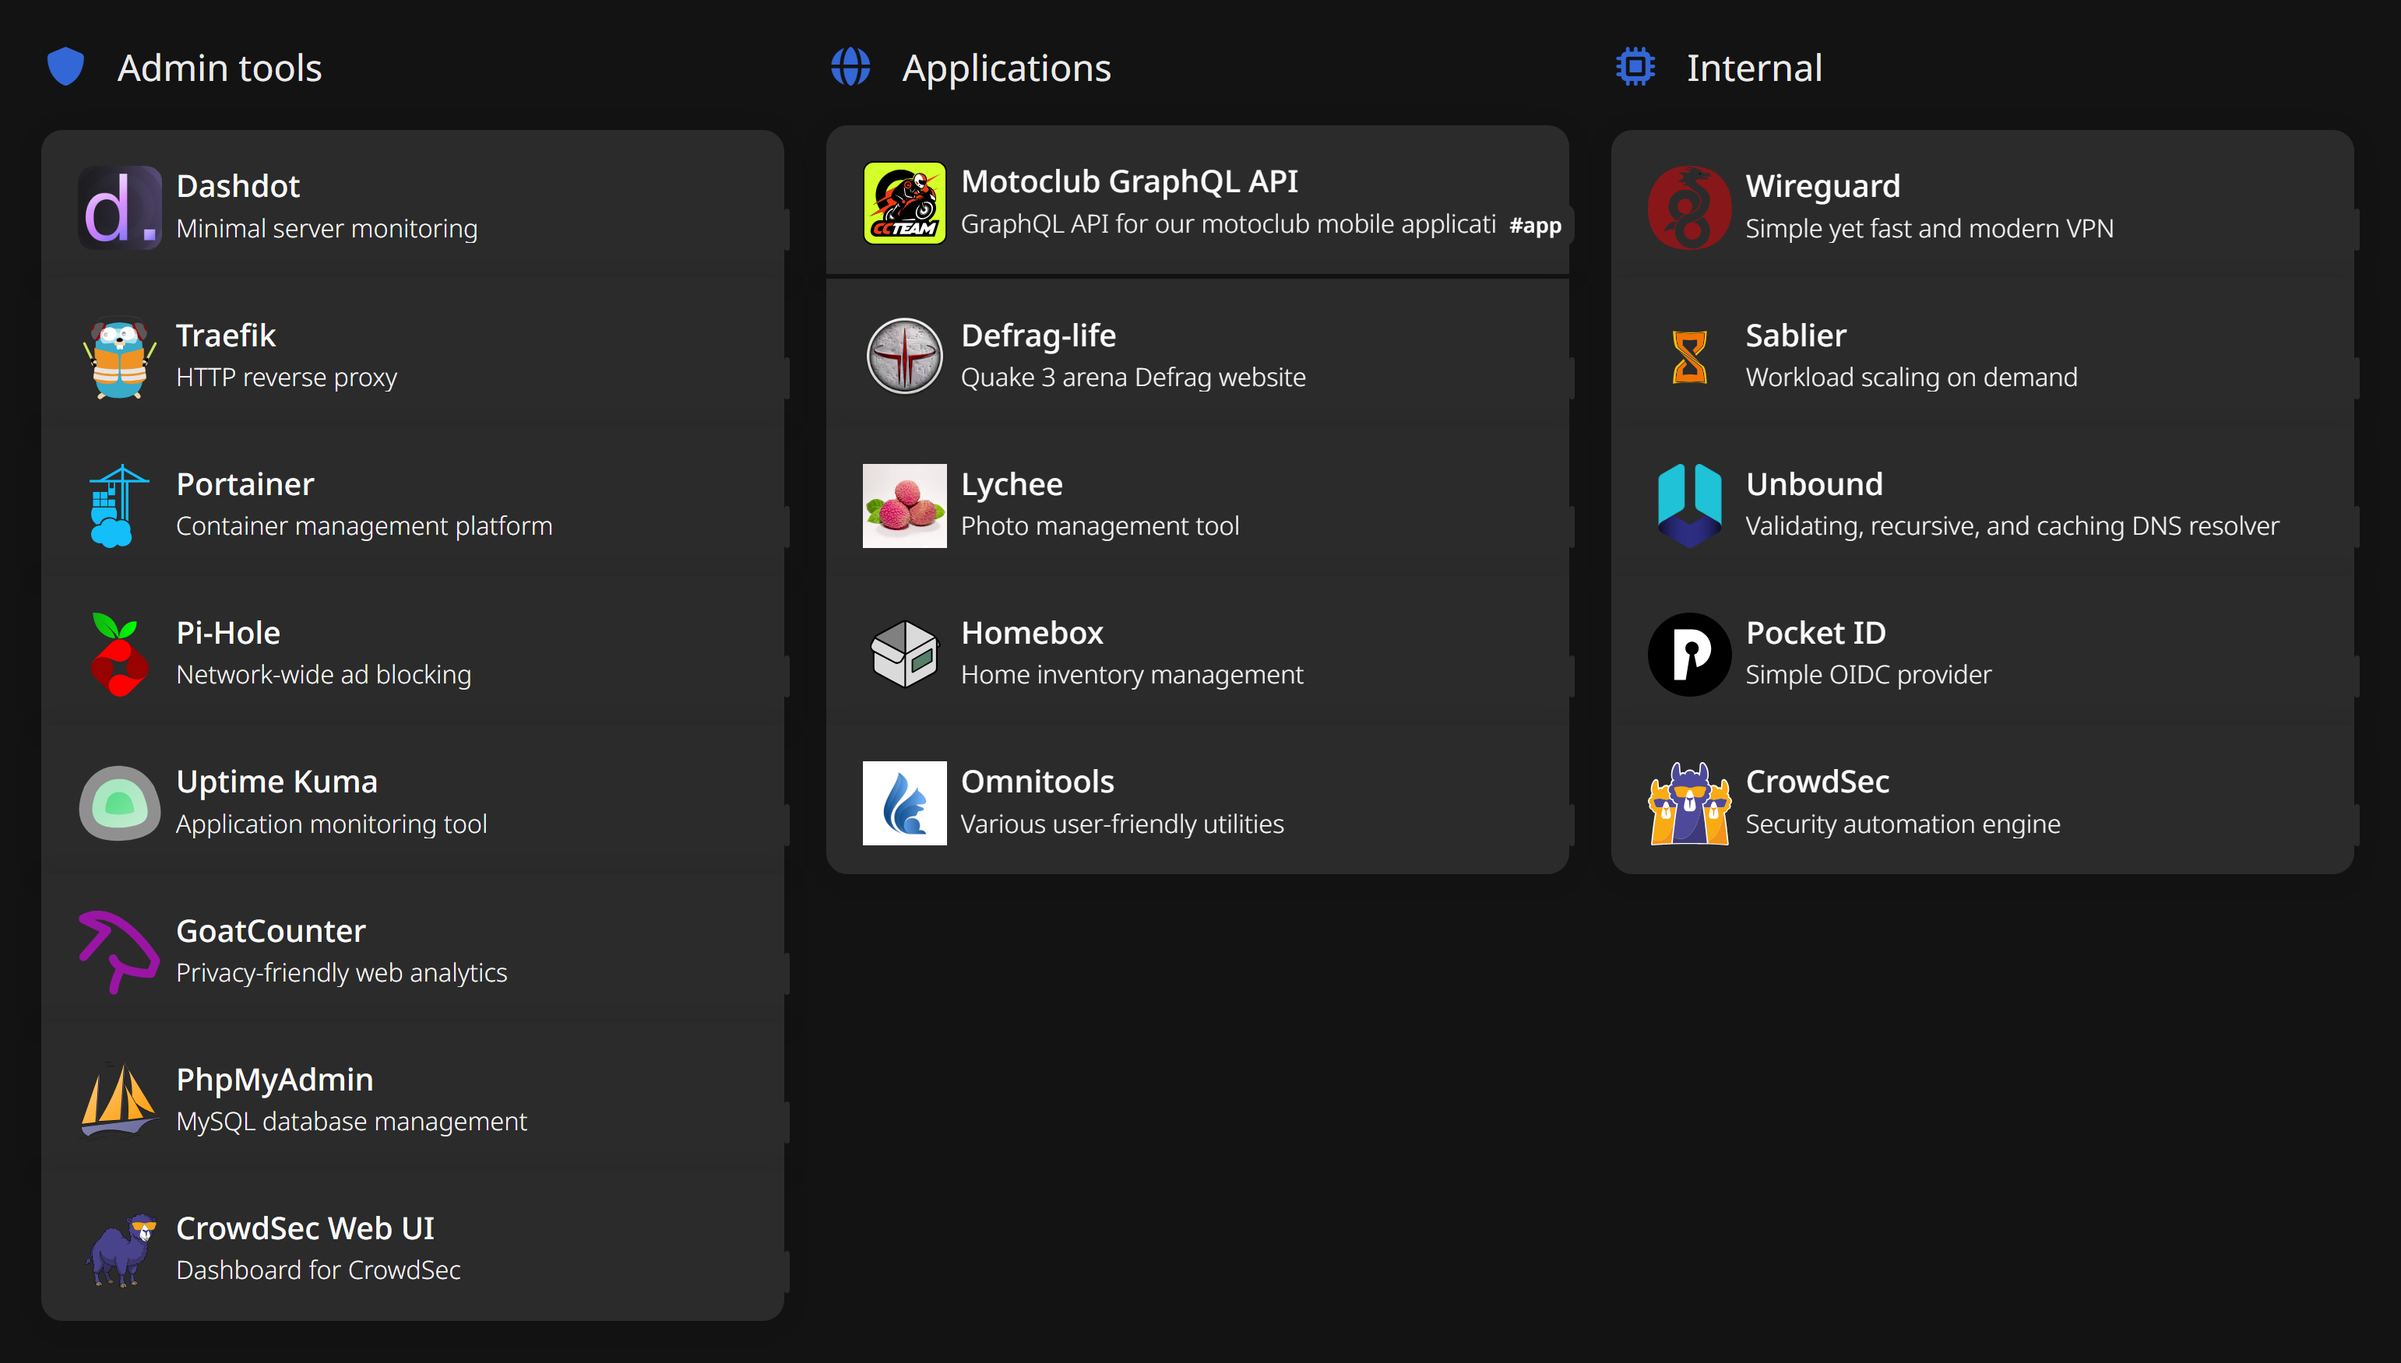
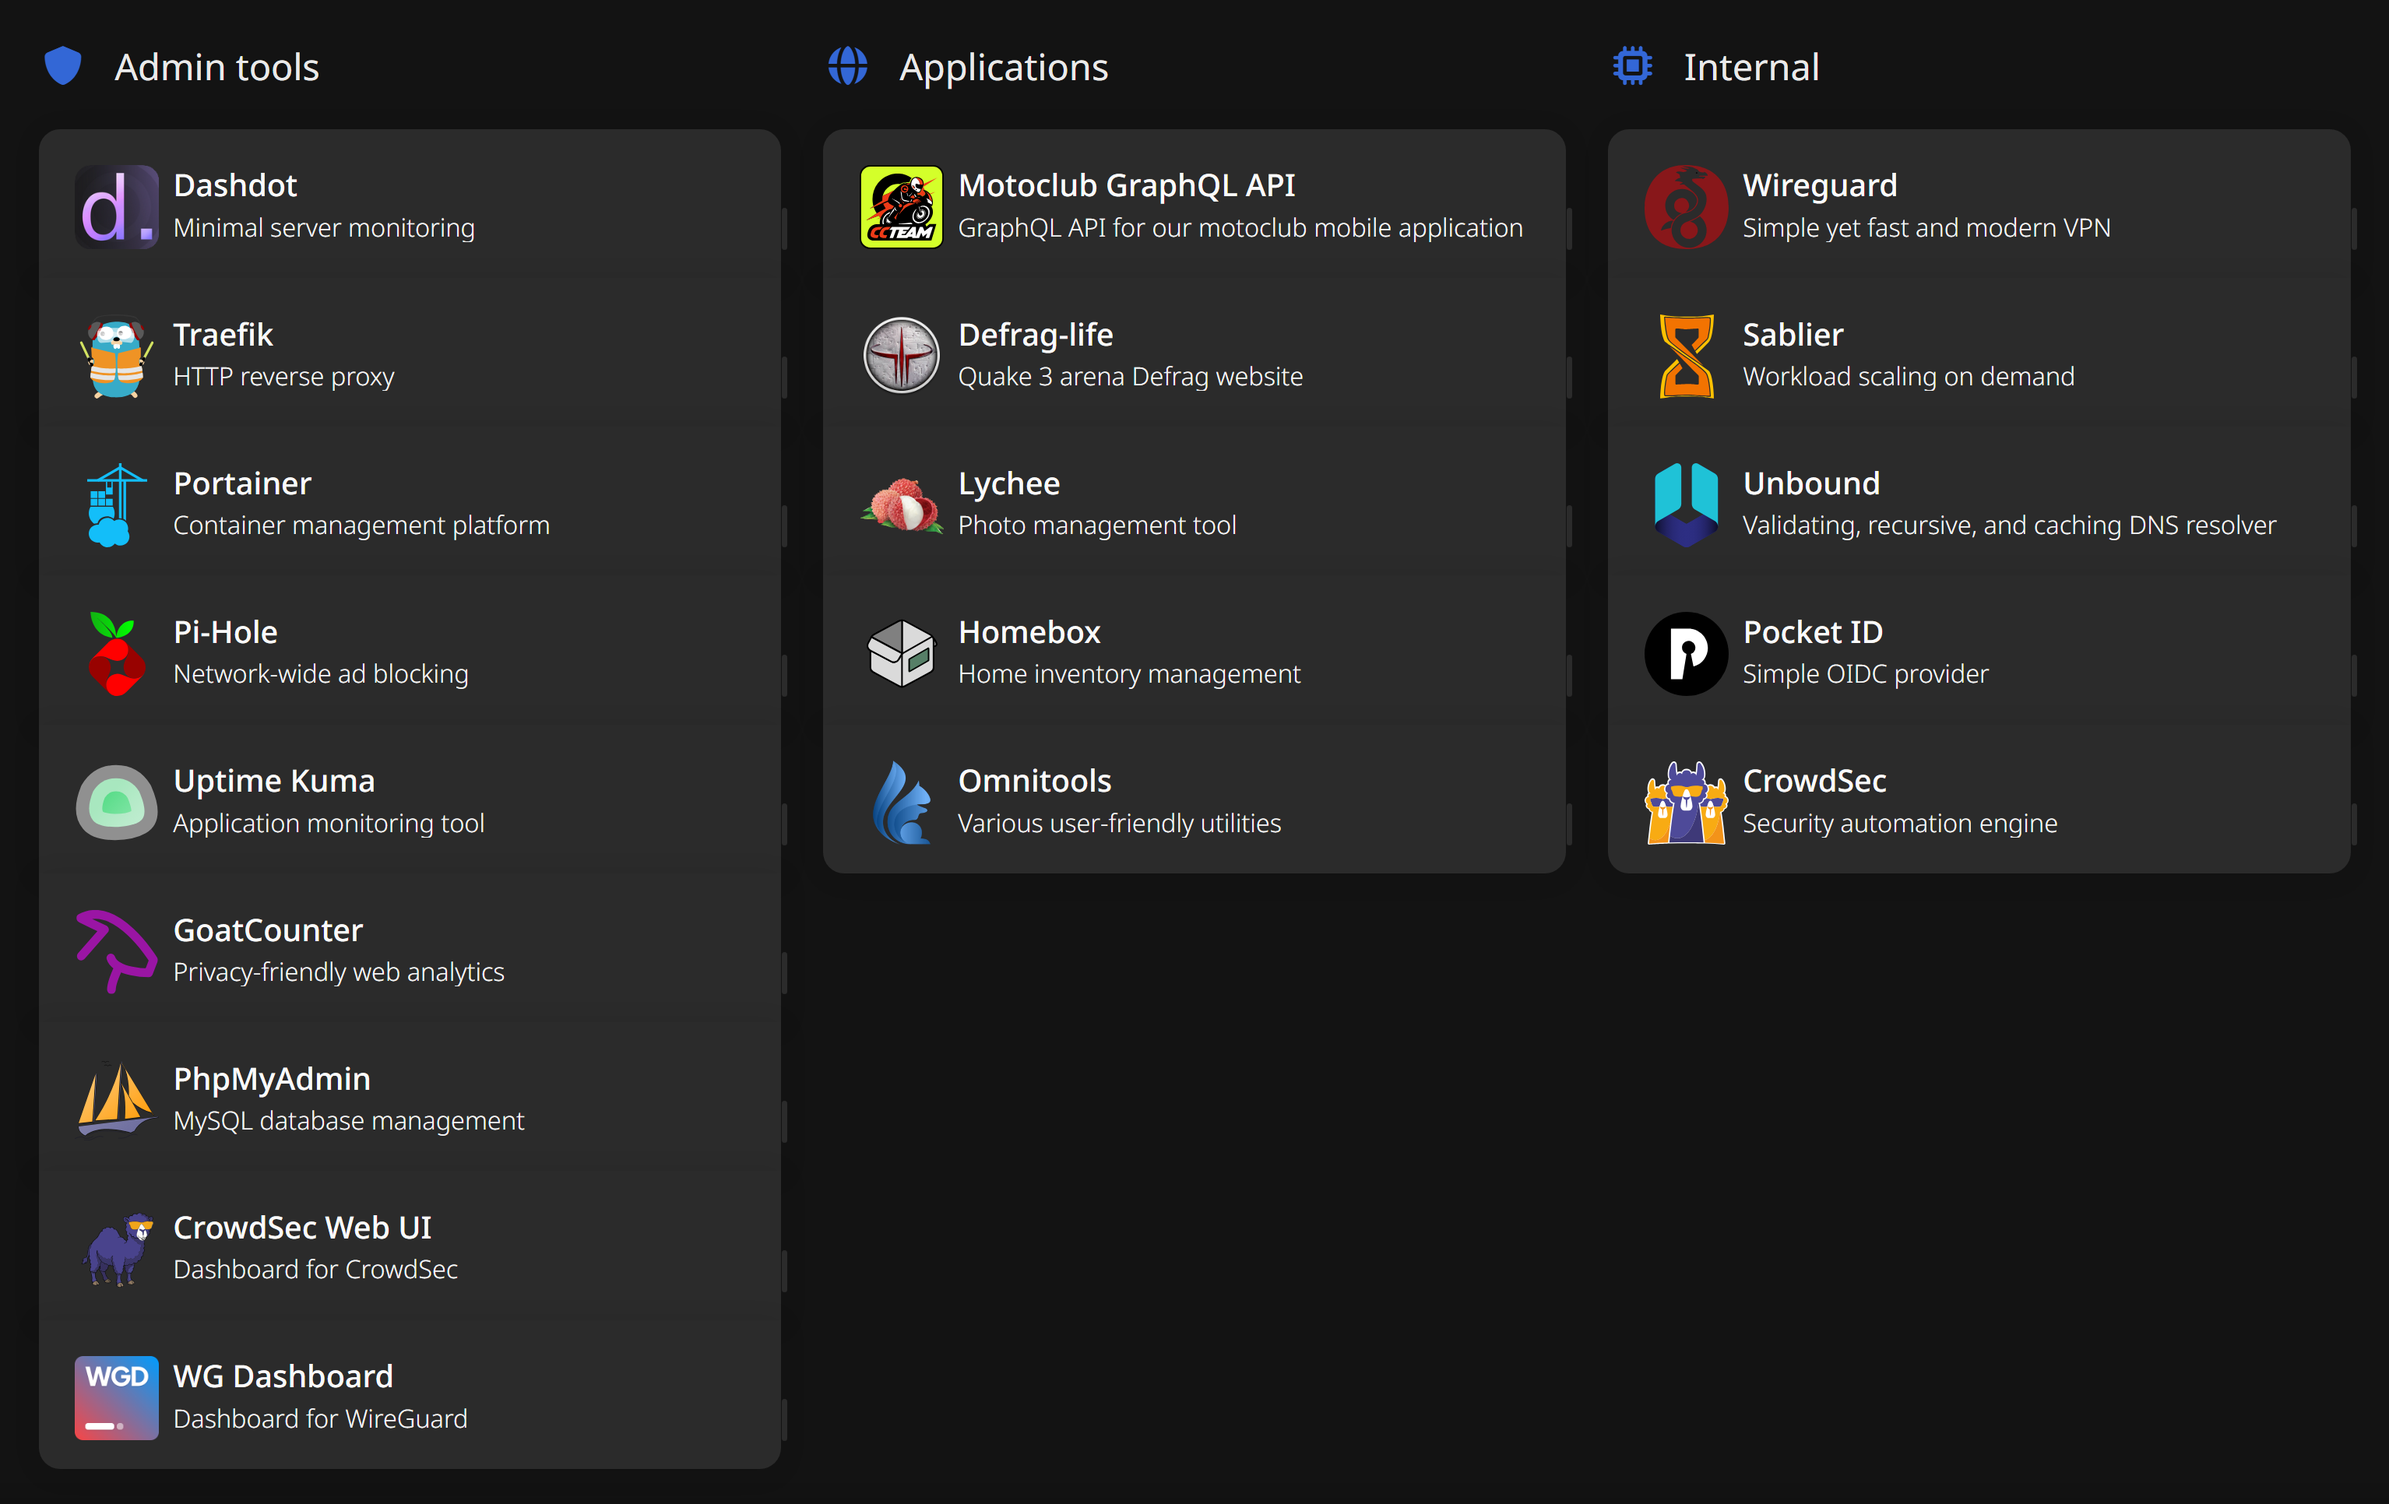
added wgdashboard

diff --git a/README.md b/README.md
@@ -2,8 +2,8 @@
 
 # Personal self-hosting guide
 
-![Static Badge](https://img.shields.io/badge/Version-1.1.3-2AAB92)
-![Static Badge](https://img.shields.io/badge/Last_update-18_Sept_2026-blue)
+![Static Badge](https://img.shields.io/badge/Version-1.1.4-2AAB92)
+![Static Badge](https://img.shields.io/badge/Last_update-22_Sept_2026-blue)
 ![Static Badge](https://img.shields.io/badge/Free_&_Open_source-GPL_V3-green)
 
 This project describes my personal **self-hosted** infrastructure setup, running on a **mini PC** (**N100** based).
@@ -55,7 +55,7 @@ It uses only **free** and **open source** software.
     8. [Network flow](#network-flow)
 
    </details>
-4. <details>
+4. <details open>
    <summary><a href="#install-services">Install services</a></summary>
 
    1. [PocketID](#pocketid)
@@ -127,6 +127,7 @@ These are the tools we are going to run :
 |        <img src="images/logo-crowdsec.svg" alt="CrowdSec logo" height="32"/>        | CrowdSec        | https://github.com/crowdsecurity/crowdsec       | Collaborative intrusion prevention, bans attackers   |
 | <img src="images/logo-crowdsec-web-ui.svg" alt="CrowdSec Web UI logo" height="32"/> | CrowdSec Web UI | https://github.com/TheDuffman85/crowdsec-web-ui | Web dashboard for CrowdSec alerts and decisions      |
 |       <img src="images/logo-wireguard.svg" alt="Wireguard logo" height="30"/>       | Wireguard       | https://github.com/WireGuard                    | Simple yet fast and modern VPN                       |
+|     <img src="images/logo-wgdashboard.png" alt="WGDashboard logo" height="30"/>     | WGDashboard     | https://github.com/WGDashboard/WGDashboard      | Web interface to manage WireGuard peers              |
 |         <img src="images/logo-pihole.svg" alt="Pi-hole logo" height="34"/>          | Pi-hole         | https://github.com/pi-hole/pi-hole              | Network-wide ad blocking                             |
 |         <img src="images/logo-unbound.svg" alt="Unbound logo" height="32"/>         | Unbound         | https://github.com/NLnetLabs/unbound            | Validating, recursive, and caching DNS resolver      |
 |           <img src="images/logo-homer.png" alt="Homer logo" height="30"/>           | Homer           | https://github.com/bastienwirtz/homer           | Static application dashboard                         |
@@ -1394,10 +1395,10 @@ Everything about performance is in [VPN connection speed](#vpn-connection-speed)
 First, create the folders that will hold data and configuration :
 
 ```bash
-sudo mkdir -p /opt/apps/pihole /opt/apps/unbound
+sudo mkdir -p /opt/apps/pihole /opt/apps/unbound /opt/apps/wgdashboard/data
 ```
 
-Then from this project's _pihole_ and _unbound_ directories, copy the _docker-compose.yml_ files into _/opt/apps/pihole_ and _/opt/apps/unbound_ respectively.
+Then from this project's _pihole_, _unbound_ and _wgdashboard_ directories, copy the _docker-compose.yml_ files into the matching _/opt/apps_ folders.
 For more details about these files, see [Configuration files details](#configuration-files-details-1).
 
 WireGuard itself is a Debian package :
@@ -1505,6 +1506,64 @@ PersistentKeepalive = 25
 > Linux answers ARP requests for **all** its addresses on **all** its interfaces, so the router could deliver traffic for the main address through the Wi-Fi or the USB adapter,
 > NetworkManager detected its own Wi-Fi as an address conflict and dropped the USB adapter address for hours at each DHCP renewal, and the client I had pointed to that address
 > lost its tunnel at random and got a fraction of the throughput when it worked. Disable the Wi-Fi (`sudo nmcli radio wifi off`) and unplug what you don't use.
+
+#### WGDashboard
+
+<img src="images/logo-wgdashboard.png" alt="WGDashboard logo" height="88"/>
+
+Managing the peers in _wg0.conf_ with an editor works, but a web interface is more comfortable : **WGDashboard** shows the interfaces, the peers, their last handshake
+and their traffic, creates a peer with its keys and its QR code, and serves the configuration file to download. It is the replacement for WireGuard UI,
+which is no longer maintained and which could not be used with WireGuard running on the host.
+
+> [!IMPORTANT]
+> The container **must share the host's network namespace** (`network_mode: host`). WireGuard runs on the host, so the `wg0` interface lives in the host's namespace :
+> a container with its own namespace can read _wg0.conf_ through the bind mount, and will happily list your peers, but it cannot query the interface itself.
+> The symptom is unmistakable : the peers are displayed but always as **disconnected**, with no handshake and no traffic, whatever their real state.
+
+Two consequences follow from the host namespace, and they are the whole difficulty of this service :
+
+- Traefik can no longer reach it by container name, since the container is on no Docker network. The service points at the mini PC address instead, `http://192.168.0.16:10086`
+- the dashboard is reachable **directly** at that same address, hence bypassing Traefik, the IP whitelist and any authentication middleware. Its own login therefore remains
+  the barrier that covers every path, and it is the reason we do not put PocketID in front of it : that would only protect the nice URL while leaving the direct one open
+
+To close that direct path, `app_ip` in the `[Server]` section of _wg-dashboard.ini_ can bind the dashboard to the gateway address of the private Traefik network
+(`docker network inspect traefik-private-net --format '{{range .IPAM.Config}}{{.Gateway}}{{end}}'`) so that only Traefik and the containers of that network can reach it.
+Keep in mind that this address depends on the subnet Docker assigns, and would change if the network were recreated.
+
+> [!NOTE]
+> **OIDC is not available for the admin dashboard**, only for the client side app. The `[OIDC] admin_enable` setting and the `/api/oidc/toggle` endpoint exist,
+> and the `Admin` section of _wg-dashboard-oidc-providers.json_ can be filled, but nothing consumes them : `dashboard.py` never instantiates the `DashboardOIDC` module,
+> so no provider is registered, no request is made to the provider, nothing is logged, and no button appears. Don't spend an evening looking for a configuration mistake.
+>
+> The single sign-on documented by the project applies to the **client side app** (`/client`), a self-service portal where people sign in to download the peers assigned
+> to them : fill the `Client` section instead, set `client_enable = true`, and register the portal URL itself as the callback. The (empty) **Clients** tab of the admin
+> dashboard lists those portal accounts, not your peers — an empty tab is normal when you are the only user.
+>
+> The `extra_hosts` entry of the Compose file is there for that case : in the host namespace the container resolves names through the **host** resolver, which knows
+> nothing of the private names, so the provider would not even be resolved. See [PocketID](#pocketid) for the general problem and its other solutions.
+
+##### Setting up
+
+Create the folder, then copy the _docker-compose.yml_ file from this project's _wgdashboard_ directory into _/opt/apps/wgdashboard_,
+and the _wgdashboard.yml_ file from _traefik/dynamic_ into _/opt/apps/traefik/dynamic_ :
+
+```bash
+sudo mkdir -p /opt/apps/wgdashboard/data
+```
+
+Then add a **local DNS record** `wgdashboard.example.com` pointing to the mini PC (see [Pi-hole](#pi-hole)), start the container (see [Run](#run-2)) and open
+https://wgdashboard.example.com. The default credentials are `admin` / `admin`, change them immediately in the settings, where TOTP can also be enabled.
+
+Your existing peers appear on their own : the dashboard reads the very _wg0.conf_ the interface uses, so nothing has to be imported and nothing is duplicated.
+
+> [!WARNING]
+> The dashboard can start and stop the interface, but `wg0` is managed by `wg-quick@wg0` through systemd. Avoid switching it from both sides, otherwise systemd
+> and the dashboard end up with diverging views of what is running.
+>
+> Peers created from the dashboard are written directly into _wg0.conf_. Keep a copy of that file with your backups : it holds the **server's private key**, and losing it
+> means every client has to be reconfigured.
+
+<img src="images/screen-wgdashboard.png" alt="WG Dashboard screenshot"/>
 
 #### Pi-hole
 
@@ -1761,6 +1820,29 @@ networks:
 This **Compose** file only defines the `unbound` service, on the same (external) `pihole-net` network with the **static IP address** `10.2.0.200`,
 and binds the configuration folder so that _unbound.conf_ can be edited (see [Unbound](#unbound)). Unbound is not exposed at all, only Pi-Hole talks to it.
 
+:page_facing_up: _wgdashboard/docker-compose.yml_ :
+
+```yaml
+services:
+
+  wgdashboard:
+    image: ghcr.io/wgdashboard/wgdashboard:latest
+    restart: unless-stopped
+    container_name: wgdashboard
+    volumes:
+      - /etc/wireguard:/etc/wireguard
+      - ./data:/data
+    network_mode: host
+    cap_add:
+      - NET_ADMIN
+    extra_hosts:
+      - "pocketid.example.com:192.168.0.16"
+```
+
+This one is the odd one out : no network and no published port, because `network_mode: host` puts it in the **host's** network namespace — the only way for it to see
+the live state of `wg0` (see [WGDashboard](#wgdashboard)). `NET_ADMIN` lets it act on the interface, _/etc/wireguard_ is shared with the host so that it edits the very
+file `wg-quick` uses, and _data_ holds its own database and settings. `extra_hosts` is only useful if you enable the single sign-on of the client side app.
+
 #### Traefik routing
 
 :page_facing_up: _traefik/dynamic/pihole.yml_ (to copy into _/opt/apps/traefik/dynamic/_, the directory watched by the `file` provider of _traefik.yml_) :
@@ -1791,17 +1873,43 @@ It declares the `pihole` **service** pointing to the container on port `80` (rea
 without restarting anything. The `vpn-whitelist` middleware keeps the web UI private (local network and VPN peers only).
 The `pihole-auth` middleware is a forward-auth middleware (I use PocketID) to require authentication (see [PocketID](#pocketid)).
 
+:page_facing_up: _traefik/dynamic/wgdashboard.yml_ :
+
+```yaml
+http:
+  services:
+    wgdashboard:
+      loadBalancer:
+        servers:
+          - url: http://192.168.0.16:10086
+
+  routers:
+    wgdashboard:
+      rule: 'Host(`wgdashboard.example.com`)'
+      entryPoints:
+        - websecure
+      tls:
+        certResolver: default
+      service: wgdashboard
+      middlewares:
+        - vpn-whitelist@file
+```
+
+The WGDashboard router is the same, with one difference : its service points at the **mini PC address** rather than at a container name, since the container has no
+Docker network of its own. Only the IP whitelist is applied, for the reason explained in [WGDashboard](#wgdashboard).
+
 ### Run
 
-Once the tunnel is up (see [WireGuard](#wireguard)), run the two Compose files :
+Once the tunnel is up (see [WireGuard](#wireguard)), run the three Compose files :
 
 ```bash
 sudo docker-compose -f /opt/apps/pihole/docker-compose.yml up -d
 sudo docker-compose -f /opt/apps/unbound/docker-compose.yml up -d
+sudo docker-compose -f /opt/apps/wgdashboard/docker-compose.yml up -d
 ```
 
-You should end up with the `wg0` interface (`sudo wg show`) and **2** running containers, `pihole` and `unbound`.
-Unbound is not exposed, Pi-Hole is reachable at https://pihole.example.com.
+You should end up with the `wg0` interface (`sudo wg show`) and **3** running containers, `pihole`, `unbound` and `wgdashboard`.
+Unbound is not exposed, Pi-Hole is reachable at https://pihole.example.com and WGDashboard at https://wgdashboard.example.com.
 
 # Test the network
 
